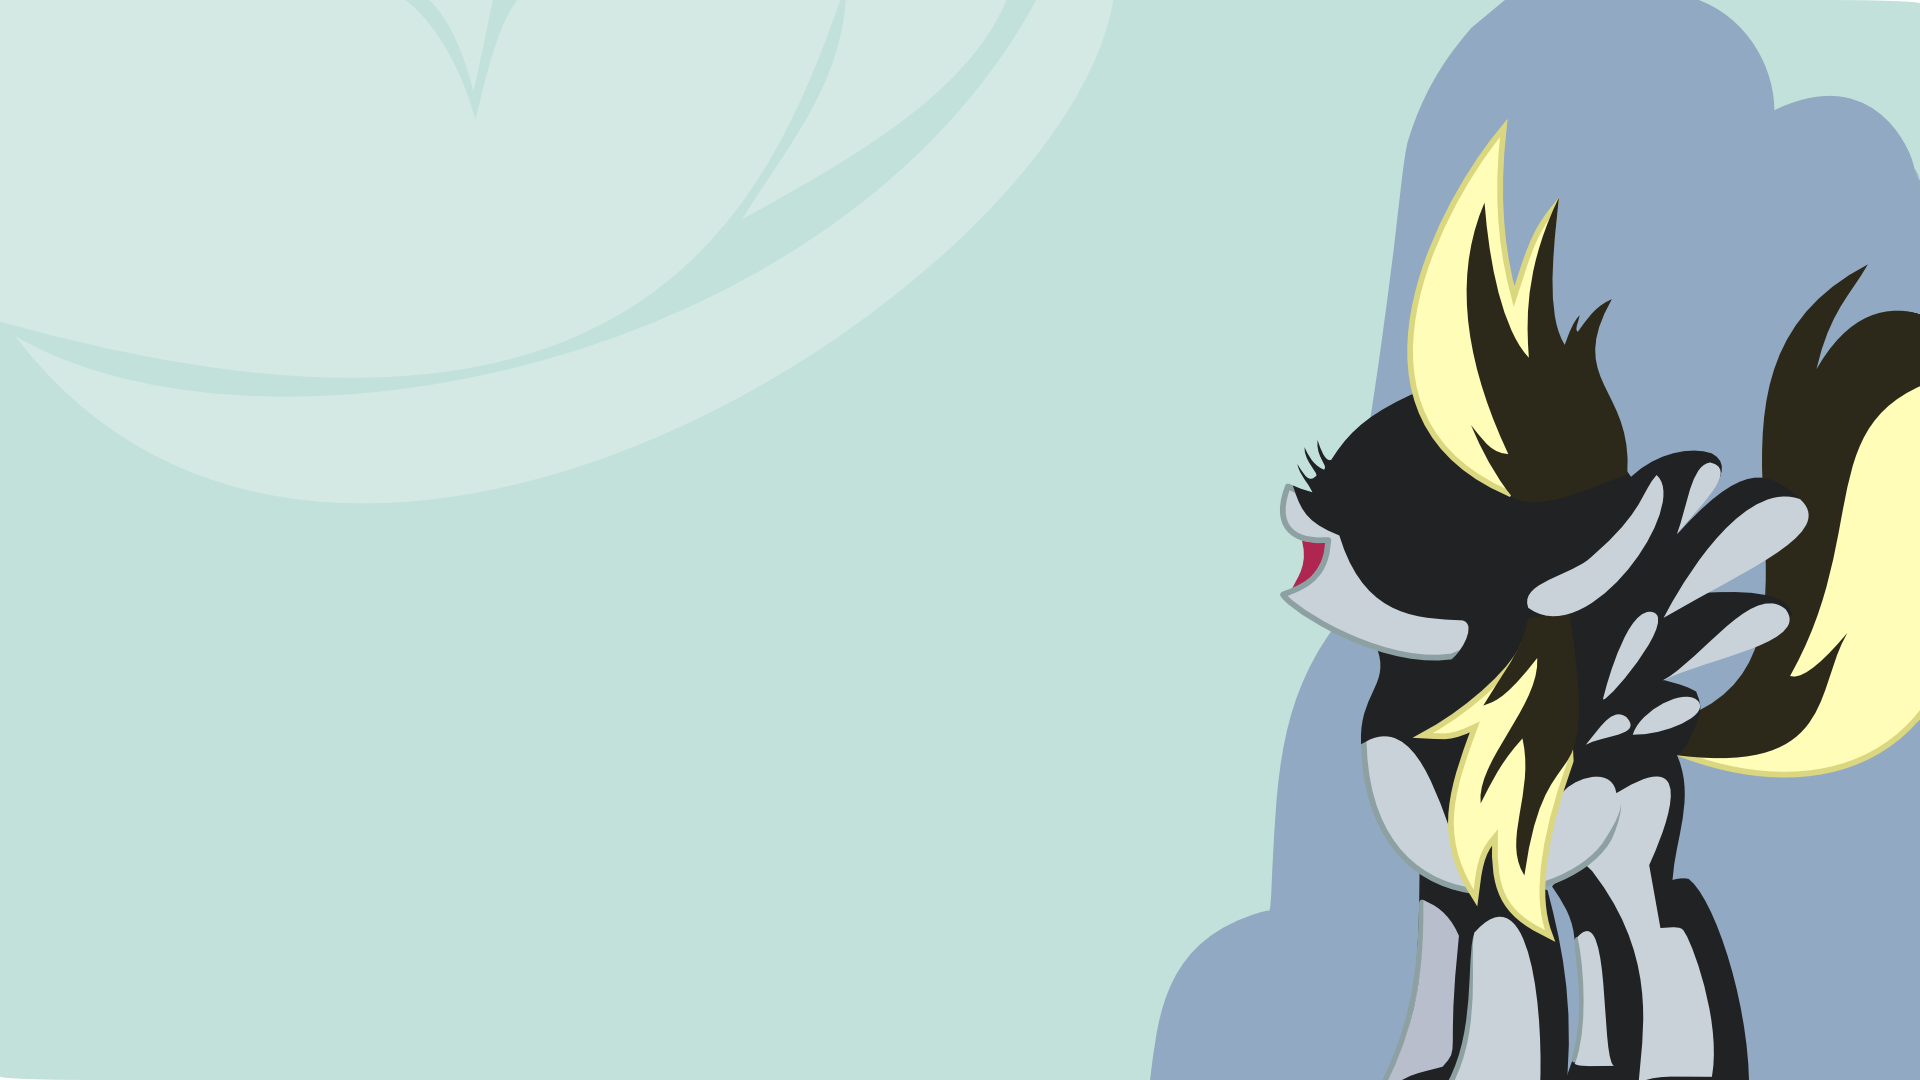
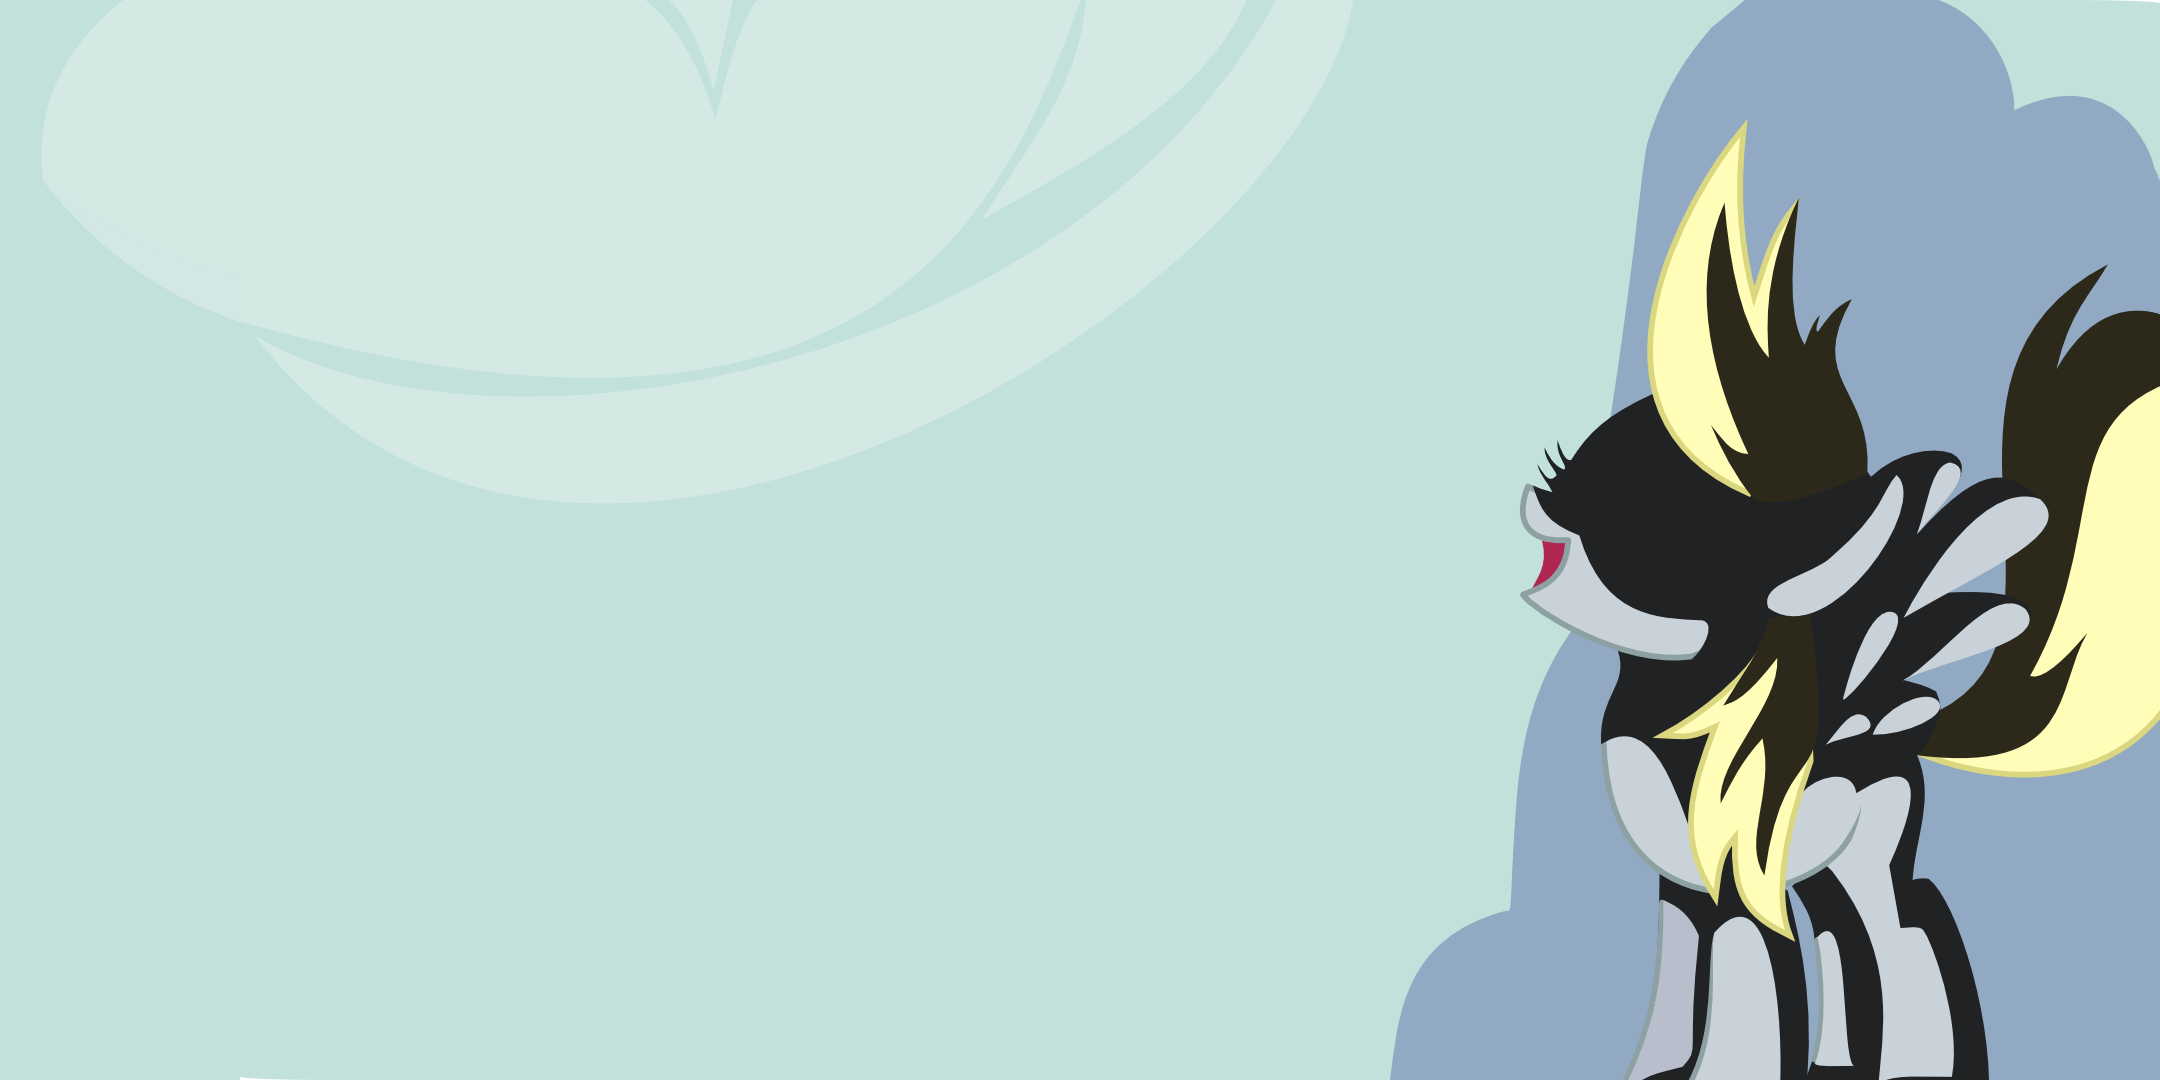
aspect ratio tweaks

Changed region(s): [[0.5938, 0.0, 1.0, 1.0], [0.875, 0.0, 0.9375, 0.0917]]

diff --git a/src/gamestates/menu.c b/src/gamestates/menu.c
@@ -124,8 +124,8 @@ void Menu_Draw(struct Game *game) {
 	if (tint < 0.000004) { PrintConsole(game, "random tint %f", tint); game->menu.mountain_position = (game->viewportWidth*(rand()/(float)RAND_MAX)/2)+game->viewportWidth/2; }
 	al_draw_tinted_bitmap(game->menu.mountain,al_map_rgba_f(tint,tint,tint,tint),game->menu.mountain_position, 0,0);
 	al_draw_scaled_bitmap(game->menu.cloud,0,0,al_get_bitmap_width(game->menu.cloud), al_get_bitmap_height(game->menu.cloud), game->viewportWidth*(sin((game->menu.cloud_position/40)-4.5)-0.3), game->viewportHeight*0.35, al_get_bitmap_width(game->menu.cloud)/2, al_get_bitmap_height(game->menu.cloud)/2,0);
-	al_draw_bitmap(game->menu.cloud2,game->viewportWidth*(game->menu.cloud2_position/100.0), game->viewportHeight/1.5,0);
-	al_draw_bitmap(game->menu.image,0, game->viewportHeight*0.55,0);
+	al_draw_bitmap(game->menu.cloud2,game->viewportWidth*(game->menu.cloud2_position/100.0), game->viewportHeight-(game->viewportWidth*(1240.0/3910.0))*0.7,0);
+	al_draw_bitmap(game->menu.image,0, game->viewportHeight-(game->viewportWidth*(1240.0/3910.0)),0);
 
 	al_draw_bitmap(game->menu.pinkcloud_bitmap,(game->viewportWidth*0.12) + (cos((game->menu.cloud_position/25+80)*1.74444))*40, 0,0);
 	al_draw_bitmap(game->menu.cloud,game->viewportWidth*game->menu.cloud_position/100, game->viewportHeight*0.1,0);
@@ -187,19 +187,19 @@ void Menu_Preload(struct Game *game, void (*progress)(struct Game*, float)) {
 	game->menu.options.width = game->width;
 	game->menu.options.height = game->height;
 	game->menu.loaded = true;
-	game->menu.image = LoadScaledBitmap( "menu/menu.png", game->viewportWidth, game->viewportHeight*0.45);
+	game->menu.image = LoadScaledBitmap( "menu/menu.png", game->viewportWidth, game->viewportWidth*(1240.0/3910.0));
 	PROGRESS;
-	game->menu.mountain = LoadScaledBitmap( "menu/mountain.png", game->viewportWidth*0.055, game->viewportHeight/9 );
+	game->menu.mountain = LoadScaledBitmap( "menu/mountain.png", game->viewportHeight*1.6*0.055, game->viewportHeight/9 );
 	PROGRESS;
-	game->menu.cloud = LoadScaledBitmap( "menu/cloud.png", game->viewportWidth*0.5, game->viewportHeight*0.25 );
+	game->menu.cloud = LoadScaledBitmap( "menu/cloud.png", game->viewportHeight*1.6*0.5, game->viewportHeight*0.25 );
 	PROGRESS;
-	game->menu.cloud2 = LoadScaledBitmap( "menu/cloud2.png", game->viewportWidth*0.2, game->viewportHeight*0.1 );
+	game->menu.cloud2 = LoadScaledBitmap( "menu/cloud2.png", game->viewportHeight*1.6*0.2, game->viewportHeight*0.1 );
 	PROGRESS;
-	game->menu.logo = LoadScaledBitmap( "menu/logo.png", game->viewportWidth*0.3, game->viewportHeight*0.35 );
-	game->menu.blurbg = al_create_bitmap(game->viewportWidth*0.3, game->viewportHeight*0.35);
-	game->menu.blurbg2 = al_create_bitmap(game->viewportWidth*0.3, game->viewportHeight*0.35);
+	game->menu.logo = LoadScaledBitmap( "menu/logo.png", game->viewportHeight*1.6*0.3, game->viewportHeight*0.35 );
+	game->menu.blurbg = al_create_bitmap(game->viewportHeight*1.6*0.3, game->viewportHeight*0.35);
+	game->menu.blurbg2 = al_create_bitmap(game->viewportHeight*1.6*0.3, game->viewportHeight*0.35);
 	PROGRESS;
-	game->menu.logoblur = al_create_bitmap(game->viewportWidth*0.3+4, game->viewportHeight*0.35+4);
+	game->menu.logoblur = al_create_bitmap(game->viewportHeight*1.6*0.3+4, game->viewportHeight*0.35+4);
 	al_set_target_bitmap(game->menu.logoblur);
 	al_clear_to_color(al_map_rgba(0,0,0,0));
 	float alpha = (1.0/40.0);
@@ -213,9 +213,10 @@ void Menu_Preload(struct Game *game, void (*progress)(struct Game*, float)) {
 	}
 	al_set_target_bitmap(al_get_backbuffer(game->display));
 	PROGRESS;
-	game->menu.glass = LoadScaledBitmap( "menu/glass.png", game->viewportWidth*0.3, game->viewportHeight*0.35 );
+	game->menu.glass = LoadScaledBitmap( "menu/glass.png", game->viewportHeight*1.6*0.3, game->viewportHeight*0.35 );
 	PROGRESS;
-	game->menu.pinkcloud = LoadScaledBitmap( "menu/pinkcloud.png", game->viewportWidth*0.33125, game->viewportHeight*0.8122);
+	//game->menu.pinkcloud = LoadScaledBitmap( "menu/pinkcloud.png", game->viewportWidth*0.33125, game->viewportHeight*0.8122);
+	game->menu.pinkcloud = LoadScaledBitmap( "menu/pinkcloud.png", game->viewportHeight*0.8122*(1171.0/2218.0), game->viewportHeight*0.8122);
 	PROGRESS;
 	al_set_new_bitmap_flags(ALLEGRO_MEMORY_BITMAP);
 	game->menu.rain = al_load_bitmap( GetDataFilePath("menu/rain.png") );
@@ -265,14 +266,14 @@ void Menu_Preload(struct Game *game, void (*progress)(struct Game*, float)) {
 		exit(-1);
 	}
 
-	game->menu.pinkcloud_bitmap = al_create_bitmap(game->viewportWidth*0.33125, game->viewportHeight);
+	game->menu.pinkcloud_bitmap = al_create_bitmap(game->viewportHeight*0.8122*(1171.0/2218.0), game->viewportHeight);
 
-	game->menu.pie_bitmap = al_create_bitmap(game->viewportWidth/2, game->viewportHeight);
+	game->menu.pie_bitmap = al_create_bitmap(game->viewportHeight*0.8, game->viewportHeight);
 	al_set_target_bitmap(game->menu.pie_bitmap);
 	al_clear_to_color(al_map_rgba(0,0,0,0));
-	al_draw_scaled_bitmap(game->menu.pie, 0, 0, al_get_bitmap_width(game->menu.pie), al_get_bitmap_height(game->menu.pie), al_get_bitmap_width(game->menu.pie_bitmap)*0.5, 0, game->viewportWidth*0.11875, game->viewportHeight*0.0825, 0);
-	al_draw_scaled_bitmap(game->menu.pie, 0, 0, al_get_bitmap_width(game->menu.pie), al_get_bitmap_height(game->menu.pie), al_get_bitmap_width(game->menu.pie_bitmap)*0.1, al_get_bitmap_height(game->menu.pie_bitmap)*0.3, game->viewportWidth*0.09, game->viewportHeight*0.06, ALLEGRO_FLIP_HORIZONTAL);
-	al_draw_scaled_bitmap(game->menu.pie, 0, 0, al_get_bitmap_width(game->menu.pie), al_get_bitmap_height(game->menu.pie), al_get_bitmap_width(game->menu.pie_bitmap)*0.3, al_get_bitmap_height(game->menu.pie_bitmap)*0.6, game->viewportWidth*0.13, game->viewportHeight*0.1, 0);
+	al_draw_scaled_bitmap(game->menu.pie, 0, 0, al_get_bitmap_width(game->menu.pie), al_get_bitmap_height(game->menu.pie), al_get_bitmap_width(game->menu.pie_bitmap)*0.5, 0, game->viewportHeight*1.6*0.11875, game->viewportHeight*0.0825, 0);
+	al_draw_scaled_bitmap(game->menu.pie, 0, 0, al_get_bitmap_width(game->menu.pie), al_get_bitmap_height(game->menu.pie), al_get_bitmap_width(game->menu.pie_bitmap)*0.1, al_get_bitmap_height(game->menu.pie_bitmap)*0.3, game->viewportHeight*1.6*0.09, game->viewportHeight*0.06, ALLEGRO_FLIP_HORIZONTAL);
+	al_draw_scaled_bitmap(game->menu.pie, 0, 0, al_get_bitmap_width(game->menu.pie), al_get_bitmap_height(game->menu.pie), al_get_bitmap_width(game->menu.pie_bitmap)*0.3, al_get_bitmap_height(game->menu.pie_bitmap)*0.6, game->viewportHeight*1.6*0.13, game->viewportHeight*0.1, 0);
 	al_destroy_bitmap(game->menu.pie);
 	PROGRESS;
 

diff --git a/src/gamestates/intro.c b/src/gamestates/intro.c
@@ -34,7 +34,7 @@ void AnimPage(struct Game *game, int page, ALLEGRO_COLOR tint) {
 	if (page==3) { amount1=3; amount2=3; }
 	if (page==5) { amount1=5; amount2=3; anim*=2; }
 
-	if (page<6) al_draw_tinted_bitmap_region(game->intro.animsprites[page-1],tint,game->viewportWidth*0.3125*(int)fmod(anim,amount1),game->viewportHeight*0.63*(((int)(anim/amount1))%amount2),game->viewportWidth*0.3125, game->viewportHeight*0.63,offset+game->viewportWidth*0.08, game->viewportHeight*0.18,0);
+	if (page<6) al_draw_tinted_bitmap_region(game->intro.animsprites[page-1],tint,game->viewportHeight*1.6*0.3125*(int)fmod(anim,amount1),game->viewportHeight*0.63*(((int)(anim/amount1))%amount2),game->viewportHeight*1.6*0.3125, game->viewportHeight*0.63,offset+game->viewportWidth*0.08, game->viewportHeight*0.18,0);
 
 	amount1 = 2;
 	amount2 = 2;
@@ -42,7 +42,7 @@ void AnimPage(struct Game *game, int page, ALLEGRO_COLOR tint) {
 	if (page==2) { amount1=3; amount2=3; }
 	if (page==4) { amount1=5; amount2=3; anim*=2; }
 
-	if (page<5) al_draw_tinted_bitmap_region(game->intro.animsprites[page],tint,game->viewportWidth*0.3125*(int)fmod(anim,amount1),game->viewportHeight*0.63*(((int)(anim/amount1))%amount2),game->viewportWidth*0.3125, game->viewportHeight*0.63,offset+game->viewportWidth*1.08, game->viewportHeight*0.18,0);
+	if (page<5) al_draw_tinted_bitmap_region(game->intro.animsprites[page],tint,game->viewportHeight*1.6*0.3125*(int)fmod(anim,amount1),game->viewportHeight*0.63*(((int)(anim/amount1))%amount2),game->viewportHeight*1.6*0.3125, game->viewportHeight*0.63,offset+game->viewportWidth*1.08, game->viewportHeight*0.18,0);
 }
 
 void FillPage(struct Game *game, int page) {
@@ -109,9 +109,9 @@ void FillPage(struct Game *game, int page) {
 				draw_text(4, "turned his muffinzombies against Twilight");
 				draw_text(4, "and her friends, trapping them in their");
 				draw_text(4, "own homes. With the bearers of the");
-				draw_text(4, "Elements out of the way, he now waits until");
-				draw_text(4, "chaos takes hold of the world, so he can");
-				draw_text(4, "rule Equestria once again.");
+				draw_text(4, "Elements out of the way, he now waits");
+				draw_text(4, "until chaos takes hold of the world,");
+				draw_text(4, "so he can rule Equestria once again.");
 				al_hold_bitmap_drawing(false);
 				break;
 			case 5:
@@ -213,15 +213,15 @@ void Intro_Preload(struct Game *game, void (*progress)(struct Game*, float)) {
 	game->intro.in_animation = false;
 	game->intro.anim = 0;
 
-	game->intro.animsprites[0] = LoadScaledBitmap("intro/1.png", (int)(game->viewportWidth*0.3125)*2, game->viewportHeight*0.63*2);
+	game->intro.animsprites[0] = LoadScaledBitmap("intro/1.png", (int)(game->viewportHeight*1.6*0.3125)*2, game->viewportHeight*0.63*2);
 	PROGRESS;
-	game->intro.animsprites[1] = LoadScaledBitmap("intro/2.png", (int)(game->viewportWidth*0.3125)*4, game->viewportHeight*0.63*3);
+	game->intro.animsprites[1] = LoadScaledBitmap("intro/2.png", (int)(game->viewportHeight*1.6*0.3125)*4, game->viewportHeight*0.63*3);
 	PROGRESS;
-	game->intro.animsprites[2] = LoadScaledBitmap("intro/3.png", (int)(game->viewportWidth*0.3125)*3, game->viewportHeight*0.63*3);
+	game->intro.animsprites[2] = LoadScaledBitmap("intro/3.png", (int)(game->viewportHeight*1.6*0.3125)*3, game->viewportHeight*0.63*3);
 	PROGRESS;
-	game->intro.animsprites[3] = LoadScaledBitmap("intro/4.png", (int)(game->viewportWidth*0.3125)*2, game->viewportHeight*0.63*2);
+	game->intro.animsprites[3] = LoadScaledBitmap("intro/4.png", (int)(game->viewportHeight*1.6*0.3125)*2, game->viewportHeight*0.63*2);
 	PROGRESS;
-	game->intro.animsprites[4] = LoadScaledBitmap("intro/5.png", (int)(game->viewportWidth*0.3125)*5, game->viewportHeight*0.63*3);
+	game->intro.animsprites[4] = LoadScaledBitmap("intro/5.png", (int)(game->viewportHeight*1.6*0.3125)*5, game->viewportHeight*0.63*3);
 	PROGRESS;
 
 	game->intro.table_bitmap =LoadScaledBitmap("intro/paper.png", game->viewportWidth, game->viewportHeight);

diff --git a/src/gamestates/pause.c b/src/gamestates/pause.c
@@ -71,7 +71,7 @@ int Pause_Keydown(struct Game *game, ALLEGRO_EVENT *ev) {
 
 void Pause_Preload(struct Game* game) {
 	game->pause.bitmap = NULL;
-	game->pause.derpy = LoadScaledBitmap("levels/derpy_pause.png", game->viewportWidth*0.53, game->viewportHeight*0.604);
+	game->pause.derpy = LoadScaledBitmap("levels/derpy_pause.png", game->viewportHeight*1.6*0.53, game->viewportHeight*0.604);
 	PrintConsole(game,"Pause preloaded.");
 	if (!game->menu.loaded) {
 		PrintConsole(game,"Pause: Preloading GAMESTATE_MENU...");
@@ -97,7 +97,7 @@ void Pause_Draw(struct Game* game) {
 	game->loadstate=game->gamestate;
 	game->gamestate=GAMESTATE_PAUSE;
 	al_draw_tinted_bitmap(game->pause.bitmap,al_map_rgba_f(1,1,1,0.75),0,0,0);
-	al_draw_bitmap(game->pause.derpy, 0.47*game->viewportWidth, game->viewportHeight*0.4, 0);
+	al_draw_bitmap(game->pause.derpy, game->viewportWidth-al_get_bitmap_width(game->pause.derpy), game->viewportHeight*0.4, 0);
 	al_draw_text_with_shadow(game->menu.font_title, al_map_rgb(255,255,255), game->viewportWidth*0.5, game->viewportHeight*0.1, ALLEGRO_ALIGN_CENTRE, "Super Derpy");
 	al_draw_text_with_shadow(game->menu.font_subtitle, al_map_rgb(255,255,255), game->viewportWidth*0.5, game->viewportHeight*0.275, ALLEGRO_ALIGN_CENTRE, "Game paused.");
 	DrawMenuState(game);

diff --git a/src/gamestates/loading.c b/src/gamestates/loading.c
@@ -81,10 +81,11 @@ void Loading_Load(struct Game *game) {
 
 	game->loading.loading_bitmap = al_create_bitmap(game->viewportWidth, game->viewportHeight);
 
-	game->loading.image = LoadScaledBitmap("loading.png", game->viewportWidth, game->viewportHeight);
+	game->loading.image = LoadScaledBitmap("loading.png", game->viewportHeight*2, game->viewportHeight);
 
 	al_set_target_bitmap(game->loading.loading_bitmap);
-	al_draw_bitmap(game->loading.image, 0, 0, 0);
+	al_clear_to_color(al_map_rgb(193,225,218));
+	al_draw_bitmap(game->loading.image, game->viewportWidth-al_get_bitmap_width(game->loading.image), 0, 0);
 	al_draw_text_with_shadow(game->font, al_map_rgb(255,255,255), game->viewportWidth*0.0234, game->viewportHeight*0.84, ALLEGRO_ALIGN_LEFT, "Loading...");
 	al_draw_filled_rectangle(0, game->viewportHeight*0.985, game->viewportWidth, game->viewportHeight, al_map_rgba(128,128,128,128));
 	al_set_target_bitmap(al_get_backbuffer(game->display));
